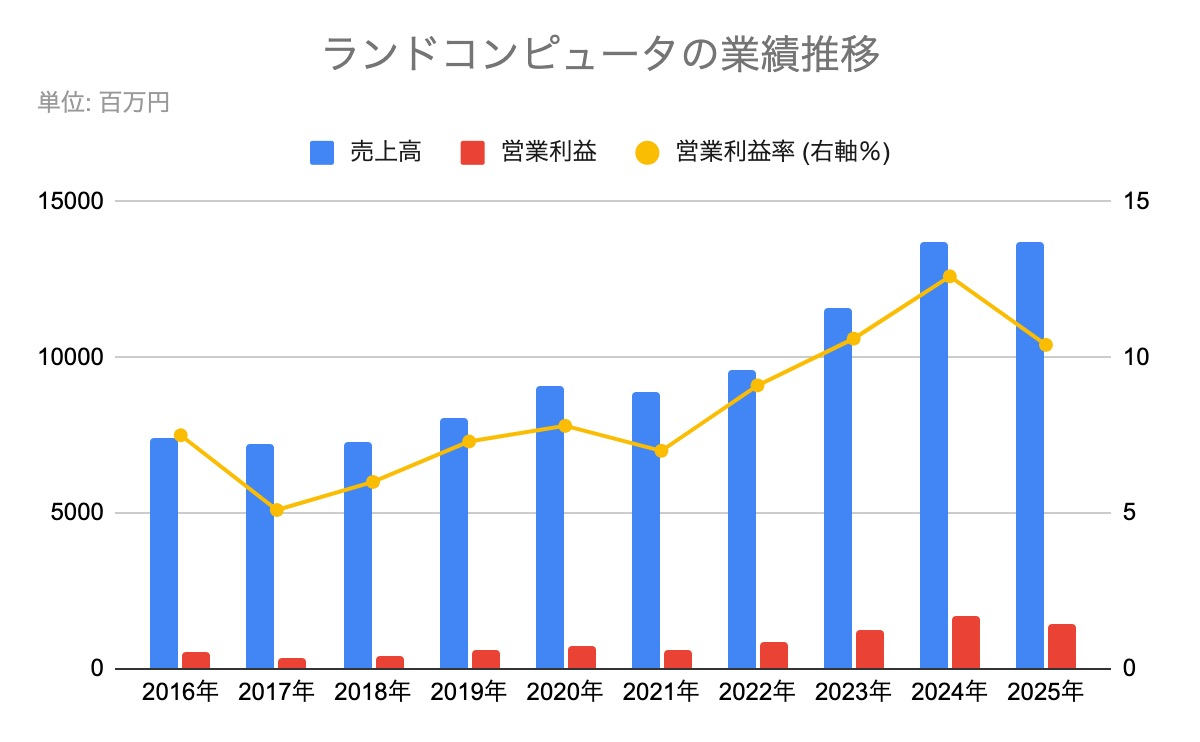
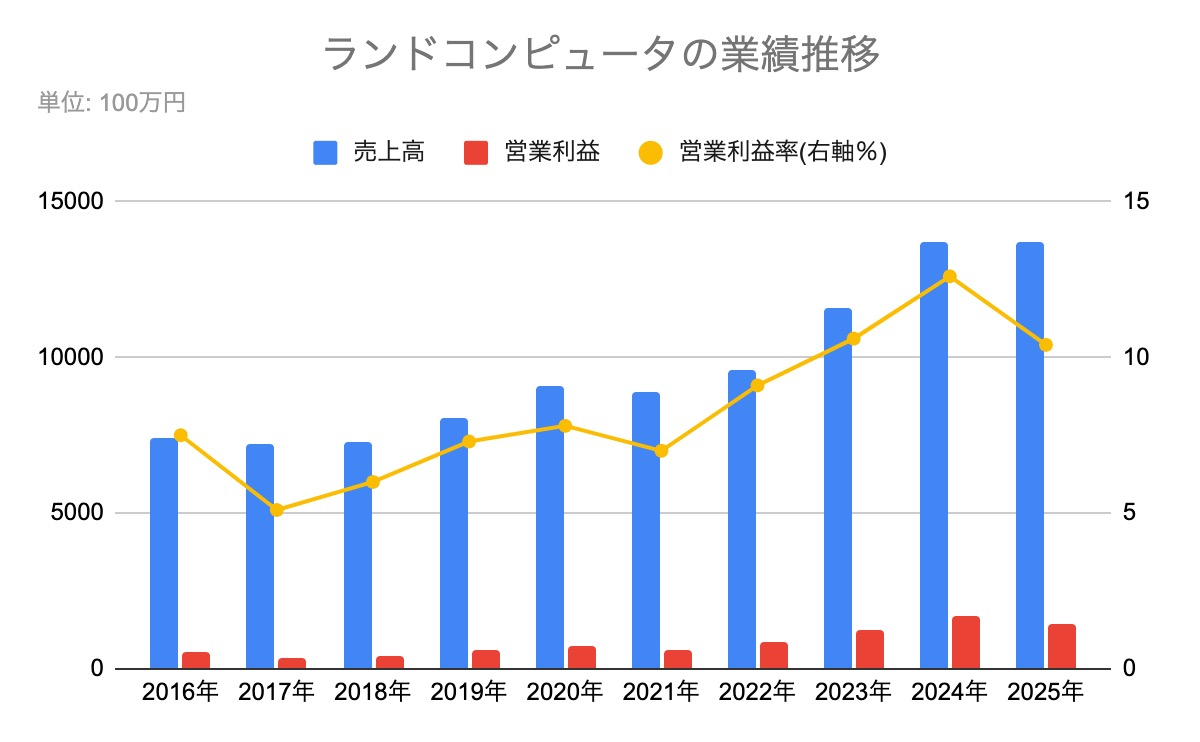
ブログ追加

Changed region(s): [[0.2467, 0.186, 0.4933, 0.217], [0.5242, 0.186, 0.74, 0.217], [0.0617, 0.124, 0.1542, 0.155]]

diff --git a/_layouts/post.html b/_layouts/post.html
@@ -16,7 +16,7 @@ layout: default
   <a href="{{ page.previous.url }}">&nbsp;&nbsp;← 前の記事&nbsp;&nbsp;&nbsp;&nbsp;&nbsp;&nbsp;</a>
 {% endif %}
 {% if page.next %}
-  <a href="{{ page.next.url }}">&nbsp;&nbsp;&nbsp;&nbsp;&nbsp;&nbsp;&nbsp;&nbsp;&nbsp;&nbsp;次の記事 →&nbsp;&nbsp;</a>
+  <a href="{{ page.next.url }}">&nbsp;&nbsp;&nbsp;&nbsp;&nbsp;&nbsp;&nbsp;&nbsp;&nbsp;&nbsp;&nbsp;&nbsp;&nbsp;&nbsp;&nbsp;&nbsp;&nbsp;&nbsp;&nbsp;&nbsp;次の記事 →&nbsp;&nbsp;</a>
 {% endif %}
 <p>
 <a href="/">トップページへ戻る</a>

diff --git a/_posts/2026-09-12-kabu.md b/_posts/2026-09-12-kabu.md
@@ -7,32 +7,77 @@ tags:
 ---
 
 コロプラに引き続き今回はランドコンピュータ（Slerの会社）！
-2026年4月に合併して社名変更(トランヴィア)になったから、まだ年度の有価証券報告書が出てないのでランドコンピュータ時代のだけまとめた。
+<br>
+2026年4月に合併して社名変更(トランヴィア)になってからはまだ有価証券報告書が出てないのでランドコンピュータ時代のだけ10年分チェック٩( 'ω' )و
 <br><br>
-これも2016年から2025年までの決算データをまとめた表を作った↓↓
-<iframe src="https://docs.google.com/spreadsheets/d/e/2PACX-1vTz11C-8hDgrrvPOnEmzwZpm5SNrRJV45sEkJ2wL9Y6LzSulQ5dg_Z3SbD4M2x4vP1WBQUHtKqshTWp/pubhtml?gid=0&amp;single=true&amp;widget=true&amp;headers=false&range=A19:K35" width="100%" height="600"></iframe>"></iframe>
-※2022年から連結決算になっている
+まとめた表↓↓(※2022年からは連結決算)
+<iframe src="https://docs.google.com/spreadsheets/d/e/2PACX-1vTz11C-8hDgrrvPOnEmzwZpm5SNrRJV45sEkJ2wL9Y6LzSulQ5dg_Z3SbD4M2x4vP1WBQUHtKqshTWp/pubhtml?gid=0&amp;single=true&amp;widget=true&amp;headers=false&range=A19:K34" width="100%" height="600"></iframe>"></iframe>
 出典：株式会社ランドコンピュータ「有価証券報告書」(2020年3月＆2025年3月)を基に作成
 <br><br>
-売上も順調に伸びてるし（10年でおよそ倍）、利益も伸びてる（10年で3倍）
-なんかすごい順調に見える、、
+表をパッと見た感じ
 <br>
-次は業績グラフ！！
+売上、利益、純資産、全て順調に増えていってるし、全体的に(コロプラに比べると)かなり順調そうに見える
+<br><br>
+次は業績グラフを見てみる↓
 <br>
 ![売上高・営業利益・営業利益率のグラフ](/images/2026-09-12-graph1.jpg "売上高・営業利益・営業利益率のグラフ")
 <br>
-グラフにしても基本的にずっと右肩上がり
-次は成長率グラフ
+グラフで見るとより分かりやすい！
+<br>
+売上が順調に伸びてる（10年で約2倍）
+<br>
+利益はさらに伸びてる（10年で約3倍）
+<br>
+IT業界は売上が上がると利益率が上がる構造らしいから売上よりも利益の上昇幅の方が大きい！
+<br>
+(飲食とかと違って売上に比例してランニングコストが上がる業界ではないみたい)
+<br>
+なので営業利益率のグラフがほぼ右肩上がりになってる
+<br><br>
+成長率グラフも見てみる
 <br>
 ![売上高成長率・営業利益成長率・EPS成長率のグラフ](/images/2026-09-12-graph2.jpg "売上高成長率・営業利益成長率・EPS成長率のグラフ")
 <br>
-
+2017年、2021年、2025年は成長してないけど残りは順調に成長しているみたい
+<br>
+売上が成長するとそれ以上に利益が成長するのはさっきのグラフでも見えたけどここも一緒
+<br>
+その分成長が鈍化した年は利益の下がり幅もおおくなってしまうけど、、
+<br>
+2023年の当期純利益が営業利益成長率と乖離があるのはこの年は税金が少し多かったからだった
+<br>
+税金が少し多く引かれると当期純利益の額も大きく下がって、その下がった部分を比較してるから成長が鈍化して見えるっぽい(弾力性という微分の分野だった、理解できなくてちょっと悔しいから勉強したいorz)
+<br>
+つまりグラフでは乖離あるけど特別損失があったわけでもない問題ないってこと
+<br><br>
+次、キャッシュフローグラフ
 <br>
 ![営業CF・投資CF・財務CFのグラフ](/images/2026-09-12-graph3.jpg "営業CF・投資CF・財務CFのグラフ")
 <br>
+営業CFが基本的にプラスなので営業で儲けたお金がしっかり現金として回収できてる
+<br>
+利益が伸びてるので営業CFも基本的に右肩上がり
+<br>
+2016年に財務CFがプラスなのは、この年に新規株式を発行して資金を調達したから
+<br>
+2025年に財務CFがマイナスなのは、増配したり自社株買いを行ったから
+<br>
+2023年に投資CFがマイナスなのは、この年に株を買ったり設備投資をしたりしたから、みたい
+<br><br><br>
+最後はROEと自己資本比率〜
 <br>
 ![自己資本比率・ROEのグラフ](/images/2026-09-12-graph4.jpg "自己資本比率・ROEのグラフ")
 <br>
-<br><br>
-<br><br>
-<br><br>
+自己資本比率も順調に増えて、倒産リスクの少ない60％以上を超える70％越えに！
+<br>
+ROE(どれだけ効率よく稼いでいるかの指標)も優良ラインと言われる10%をほぼ毎年超えている
+<br>
+このグラフでも問題なし
+<br><br><br>
+ランドコンピュータは、全体的にすっごい優秀な決算書だったと思う(コロプラと比べて、、、笑)
+<br>
+これはこのまま持ってても良さそうだなと思った
+<br><br><br><br>
+最後自分用メモ📝
+<br>
+SlerなどのITサービス業は、システム基盤や開発ノウハウとかの今までのやり方を他でも活用できるので、規模が大きくなればなるほど営業利益が売上以上のスピードで増えるという特徴がある

diff --git a/_posts/2026-08-06-kabu.md b/_posts/2026-08-06-kabu.md
@@ -7,22 +7,27 @@ tags:
 ---
 
 
-私が10年以上前に初めて買った株、コロプラ(3668)！！
+私が10年以上前に初めて買った株、コロプラ(3668)
 <br><br>
-ずっと放置していて含み損すごすぎて向き合ってなかったけど、今日こそちゃんと向き合います。
+ずっと放置していて含み損すごすぎて向き合ってなかったから今日こそ向き合うことにした。
 <br><br>
-月足チャート↓<br><br>
+月足チャート↓
+<br>
 ![コロプラの月足チャート](/images/2026-08-06-chart.jpeg "コロプラの月足チャート")
 <br><br>
-2017年10月18日に1198円で200株購入（239600円💦）
+2017年10月18日に1198円で200株購入(239600円)
 <br><br><br>
 2019年10月1日、ドラクエウォークリリース時に1930円まで上がったのにそのまま放置💦
 <br><br><br>
-2022年10月18日、NISA枠は5年で終了なので強制的に特定口座に移行し、この時に株は自動で買い直される（株価657円で200株）
+2022年10月18日、NISA口座は5年で終了だったから強制的にもとの口座に戻った
+<br>
+この時の価格、1株657円が今後は税金計算の時の取得価格になってしまった、、(_ _).｡o○
 <br><br><br>
-2026年8月6日の今日、401円なので現在の含み損は159600円💦
-<br><br><br>
-NISA枠から特定枠に変更になってしまったので損は50600円分しかカウントできず、残りの109000円はたとえ他の株で利益が出ていたとしても相殺できなくなった、、馬鹿すぎる💦
+つまり、
+<br><br>
+2026年8月6日の今日、401円になっていて、本来なら1198円で200株買ってるから含み損は159600円のはずなのに、
+<br>
+657円で200株買ってることになってしまったから、損は50600円分しかカウントできず、残りの109000円はなかったことになってしまった...orz(いわゆるお化け増税)
 <br><br>
 <br><br>
 いままでずっと放置してたけど、これからはちゃんと向き合っていこうと思った

diff --git a/_posts/2026-09-16-kabu.md b/_posts/2026-09-16-kabu.md
@@ -1,0 +1,26 @@
+---
+layout: post
+title: "ハウザン製薬の決算書みてみる"
+date: 2026-09-16
+tags:
+ - 株
+---
+
+❹本文を書く
+<br><br>
+<br><br>
+<br><br>
+<br><br>
+<br><br>
+<br><br>
+最後自分用メモ📝
+<br>
+ベトナムの利益の定義
+・営業利益 = 売上 - 経費 ± 営業外損益
+・経常利益 = 営業利益 ± 特別損益
+・当期純利益 = 経常利益 - 税金
+
+日本の利益の定義
+・営業利益 = 売上 - 経費
+・経常利益 = 営業利益 ± 営業外損益
+・当期純利益 = 経常利益 ± 特別損益 - 税金
